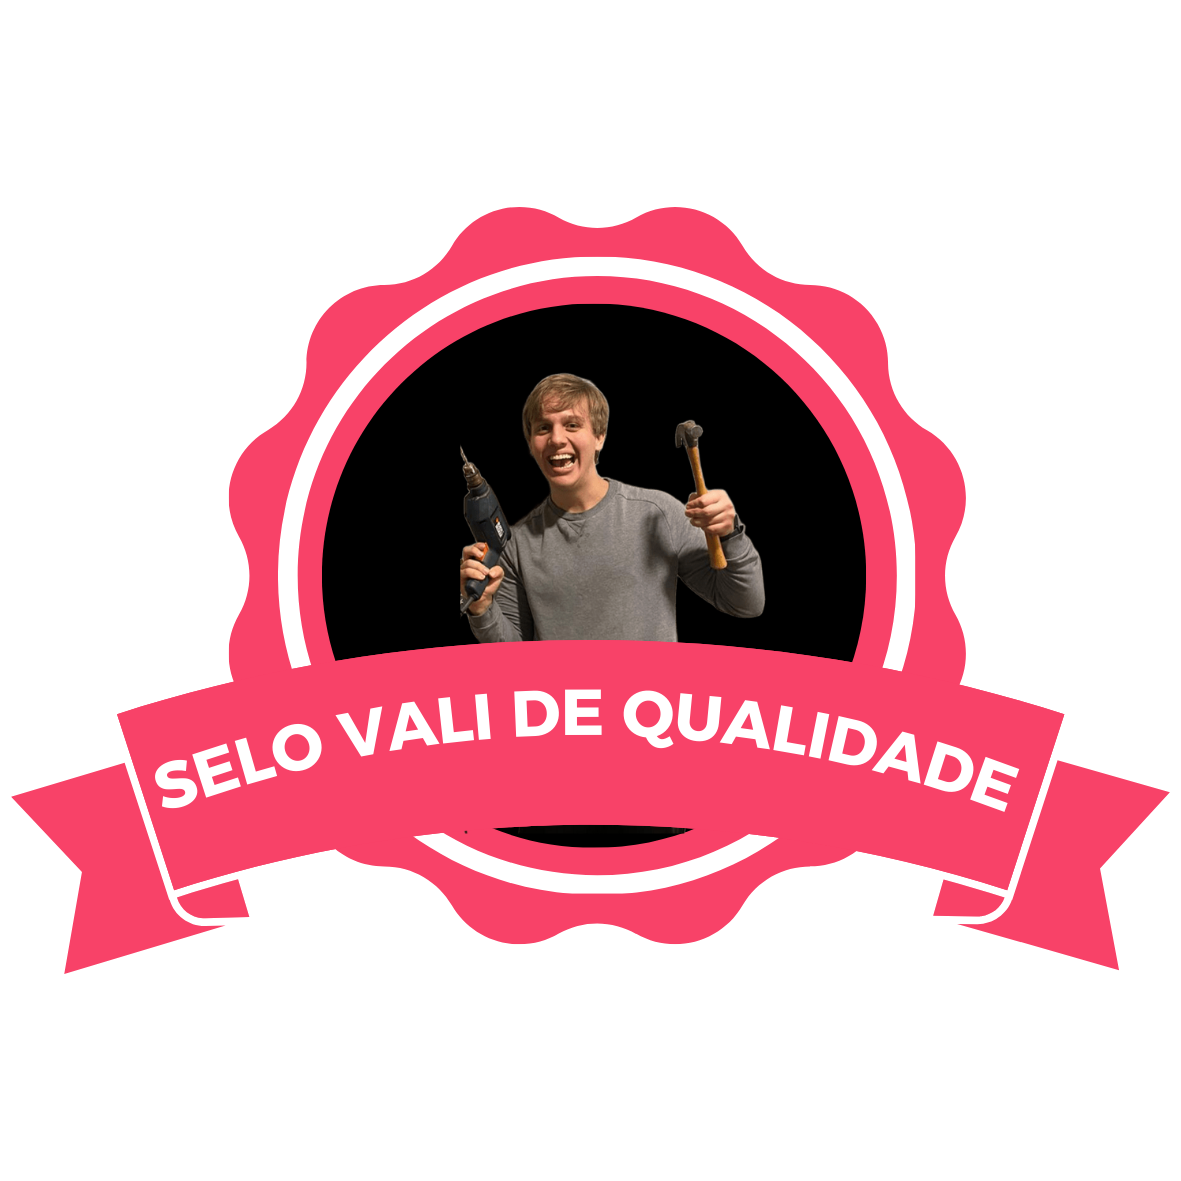
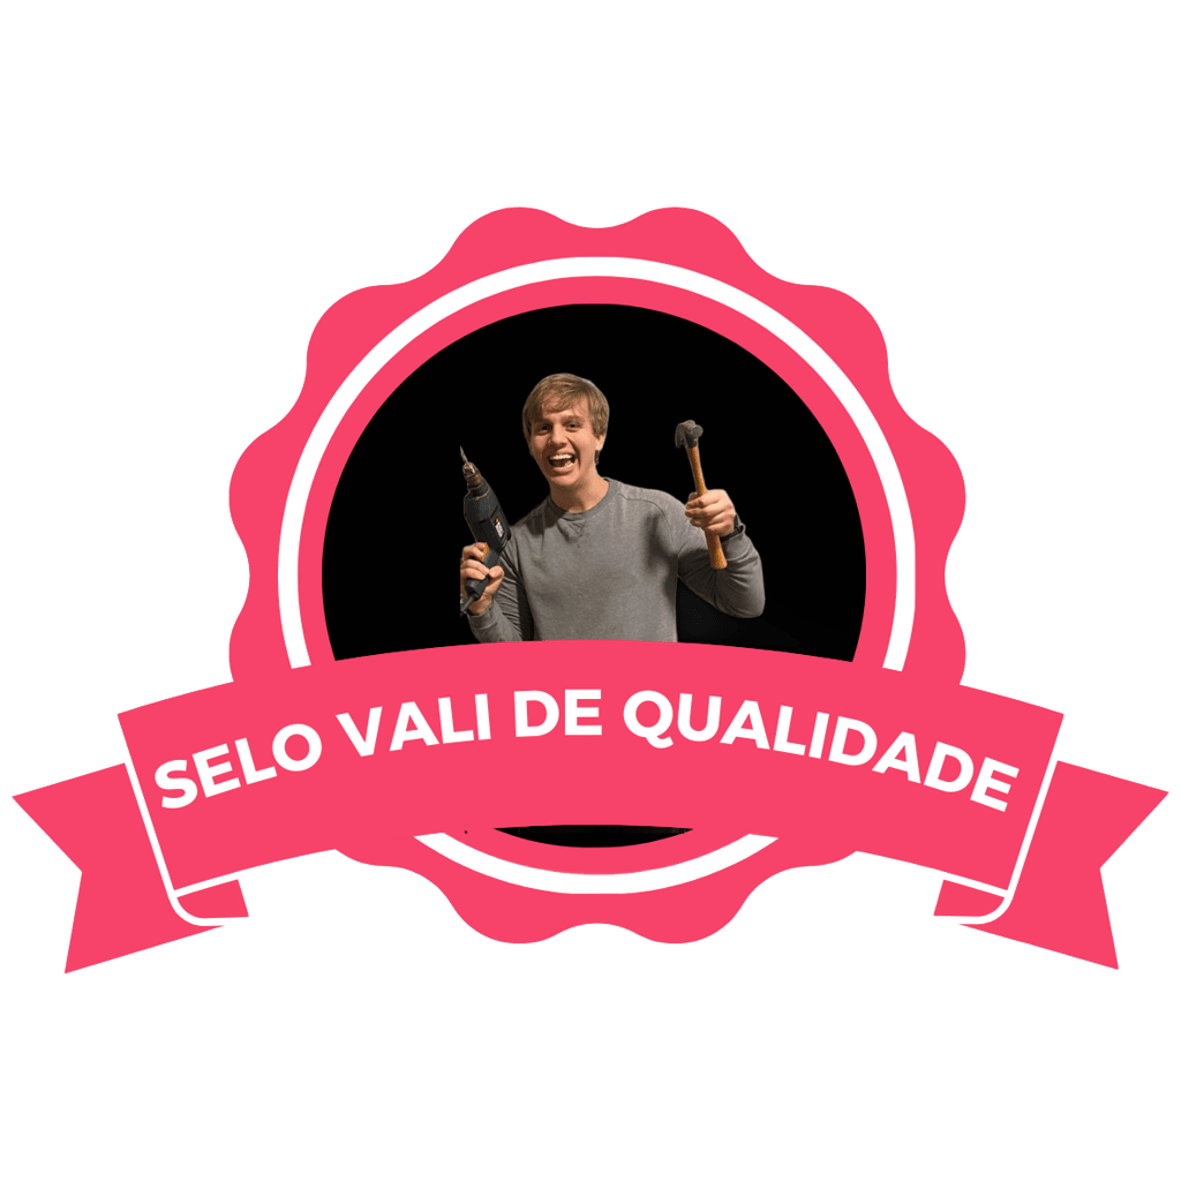
aumento do selo

diff --git a/index.html b/index.html
@@ -137,8 +137,8 @@
             position: absolute;
             top: 8px;
             right: 8px;
-            width: 50px;
-            height: 50px;
+            width: 100px;
+            height: 100px;
             z-index: 10;
         }
 
